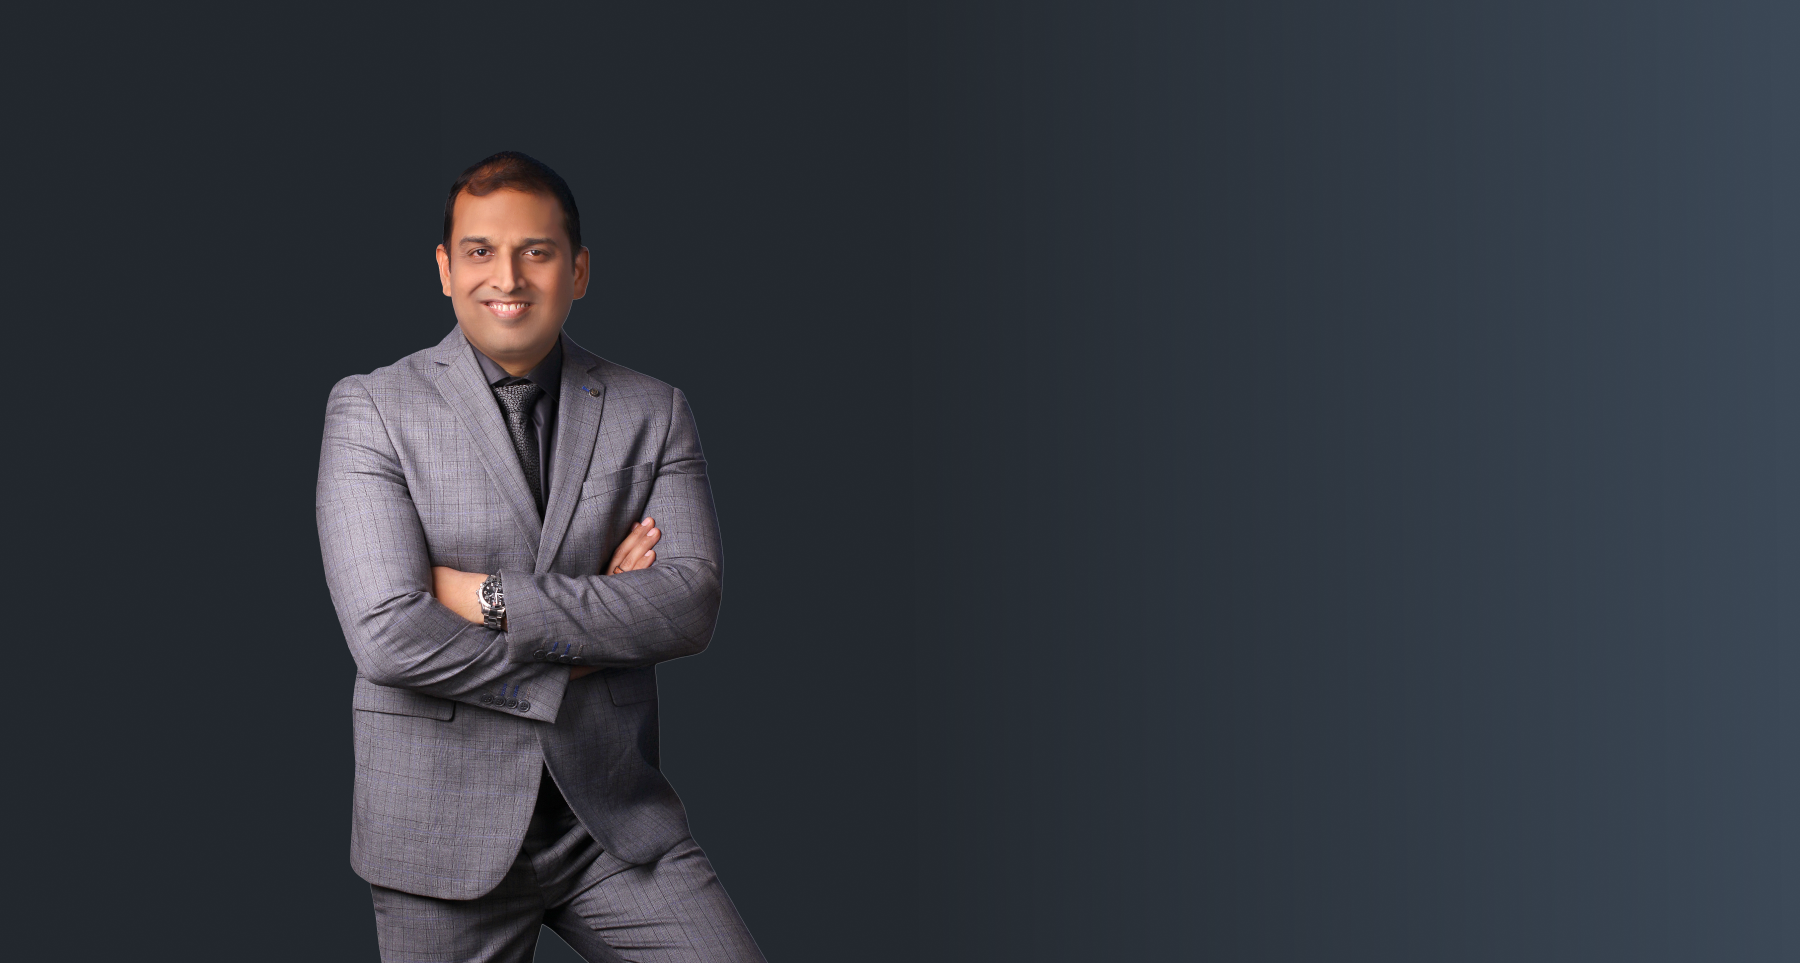
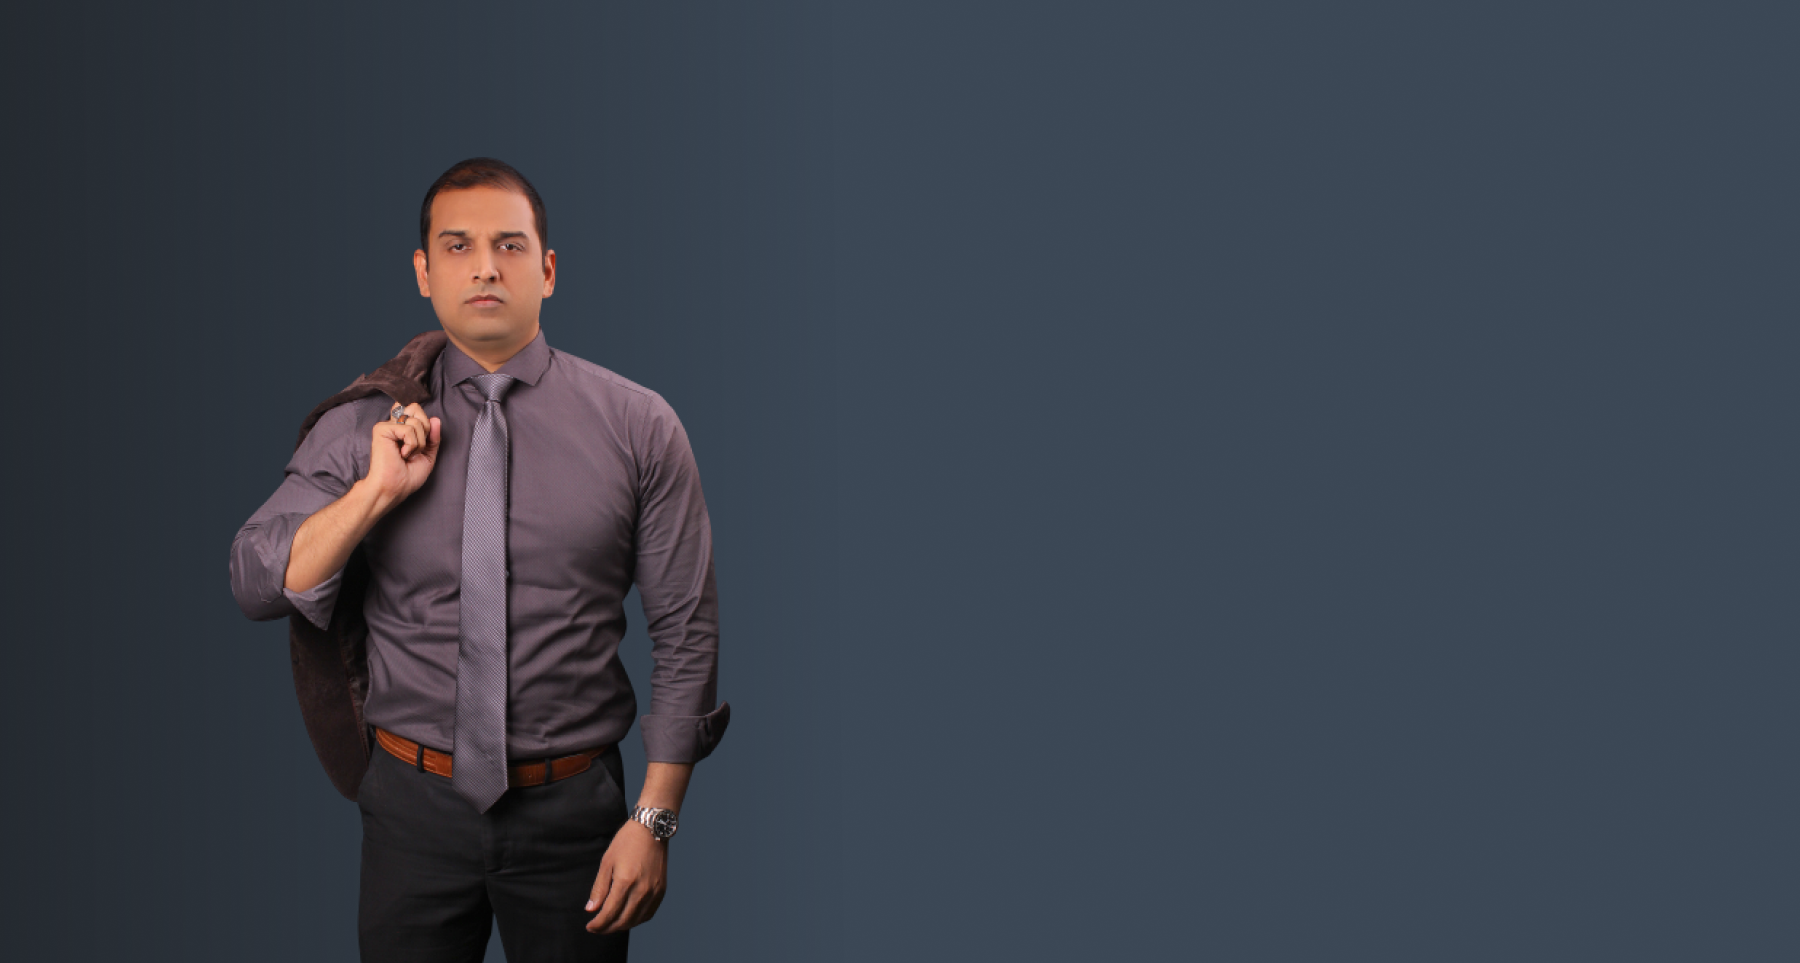
commit

diff --git a/assets/css/responsive.css b/assets/css/responsive.css
@@ -154,6 +154,14 @@
         background-position:top ;
         background-size: cover;
     }
+    .profile-description-img{
+        background:linear-gradient( to left,rgba(0, 0, 0, 0.2),rgba(0, 0, 0, 0.2)), url('../images/description-mobile.png');
+        background-position: center;
+        height: 98vh;
+        background-size: cover;
+        background-repeat: no-repeat;
+        padding: 15px;
+    }
 }
 @media only screen and (max-width:500px){
     .special-approach-btn--fill  a {
@@ -238,10 +246,8 @@ padding: 15px 35px !important;
         justify-content: center !important;
         margin-top: 20px;
     }
-    .profile-description-img{
-        background: url('../images/description.png');
-        background-position:right;
-       
+    .books-text{
+        margin-top: 0px;
     }
  
 }

diff --git a/index.html b/index.html
@@ -767,9 +767,9 @@
         <section class="section">
             <div class="container">
                 <div class="row">
-                    <div class="col-lg-5 video-col d-flex justify-content-center align-items-center">
+                    <div class="col-lg-5 d-flex justify-content-center align-items-center">
                         <div class="d-flex justify-content-center align-items-center mb-3">
-                            <img src="assets/images/home4-bg1.jpg" alt="" class="img-fluid">
+                            <img src="assets/images/profile-img.jpg" alt="" class="img-fluid">
                         </div>
                     </div>
                     <div class="col-lg-6 ms-auto books-text">

diff --git a/assets/css/style.css b/assets/css/style.css
@@ -1394,7 +1394,7 @@ padding: 6px 5px;
 .profile-description-img{
     background: url('../images/description.png');
     background-position: center;
-    height: 98vh;
+    height: 650px;
     background-size: cover;
     background-repeat: no-repeat;
     padding: 15px;
